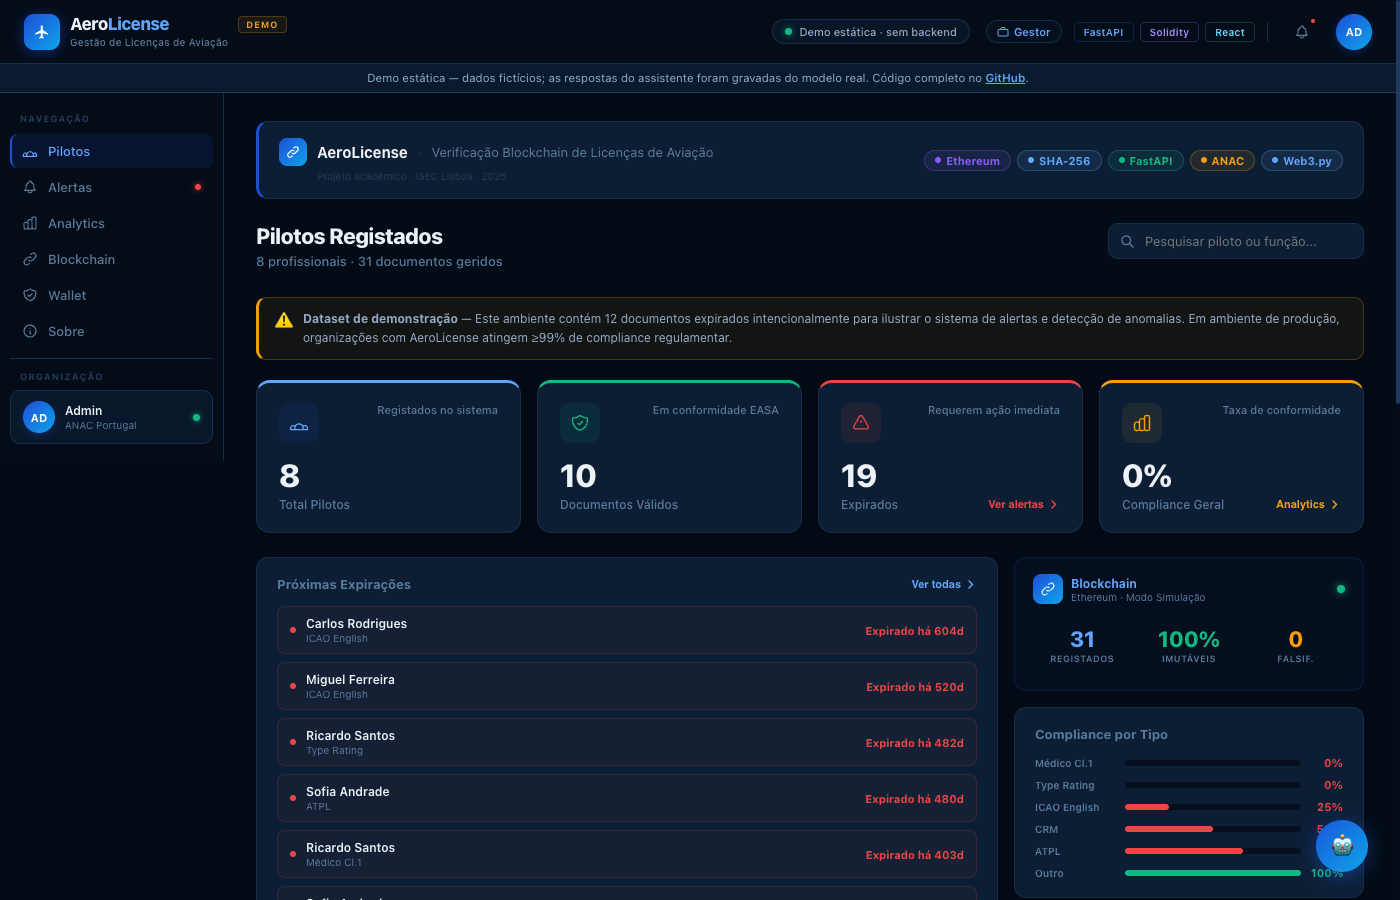
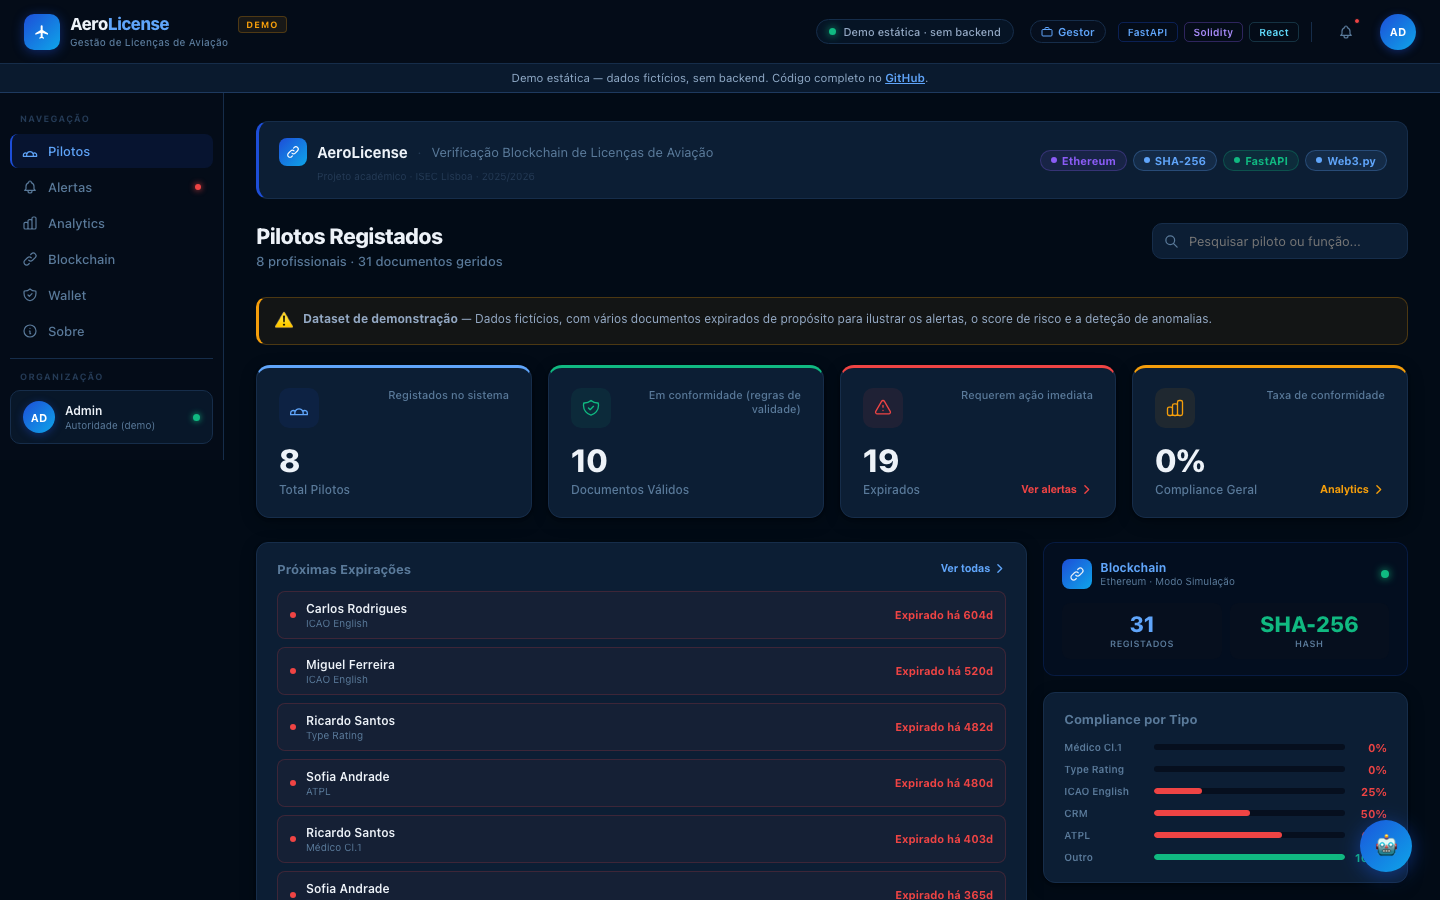
docs: refresh dashboard screenshot

diff --git a/README.md b/README.md
@@ -9,9 +9,7 @@ A compliance dashboard for aviation licences and medical certificates, with a to
 
 > **This is a static demo.** It has fictional data and no backend. The assistant panel replays answers recorded from a real model when a recordings file is present (see below); uploaded files are hashed in your browser only. The UI is in Portuguese (European).
 
-| Dashboard | AI assistant |
-|---|---|
-| ![Dashboard](docs/screenshots/dashboard.png) | ![Assistant](docs/screenshots/assistant.png) |
+![AeroLicense dashboard (static demo)](docs/screenshots/dashboard.png)
 
 ## The problem
 
